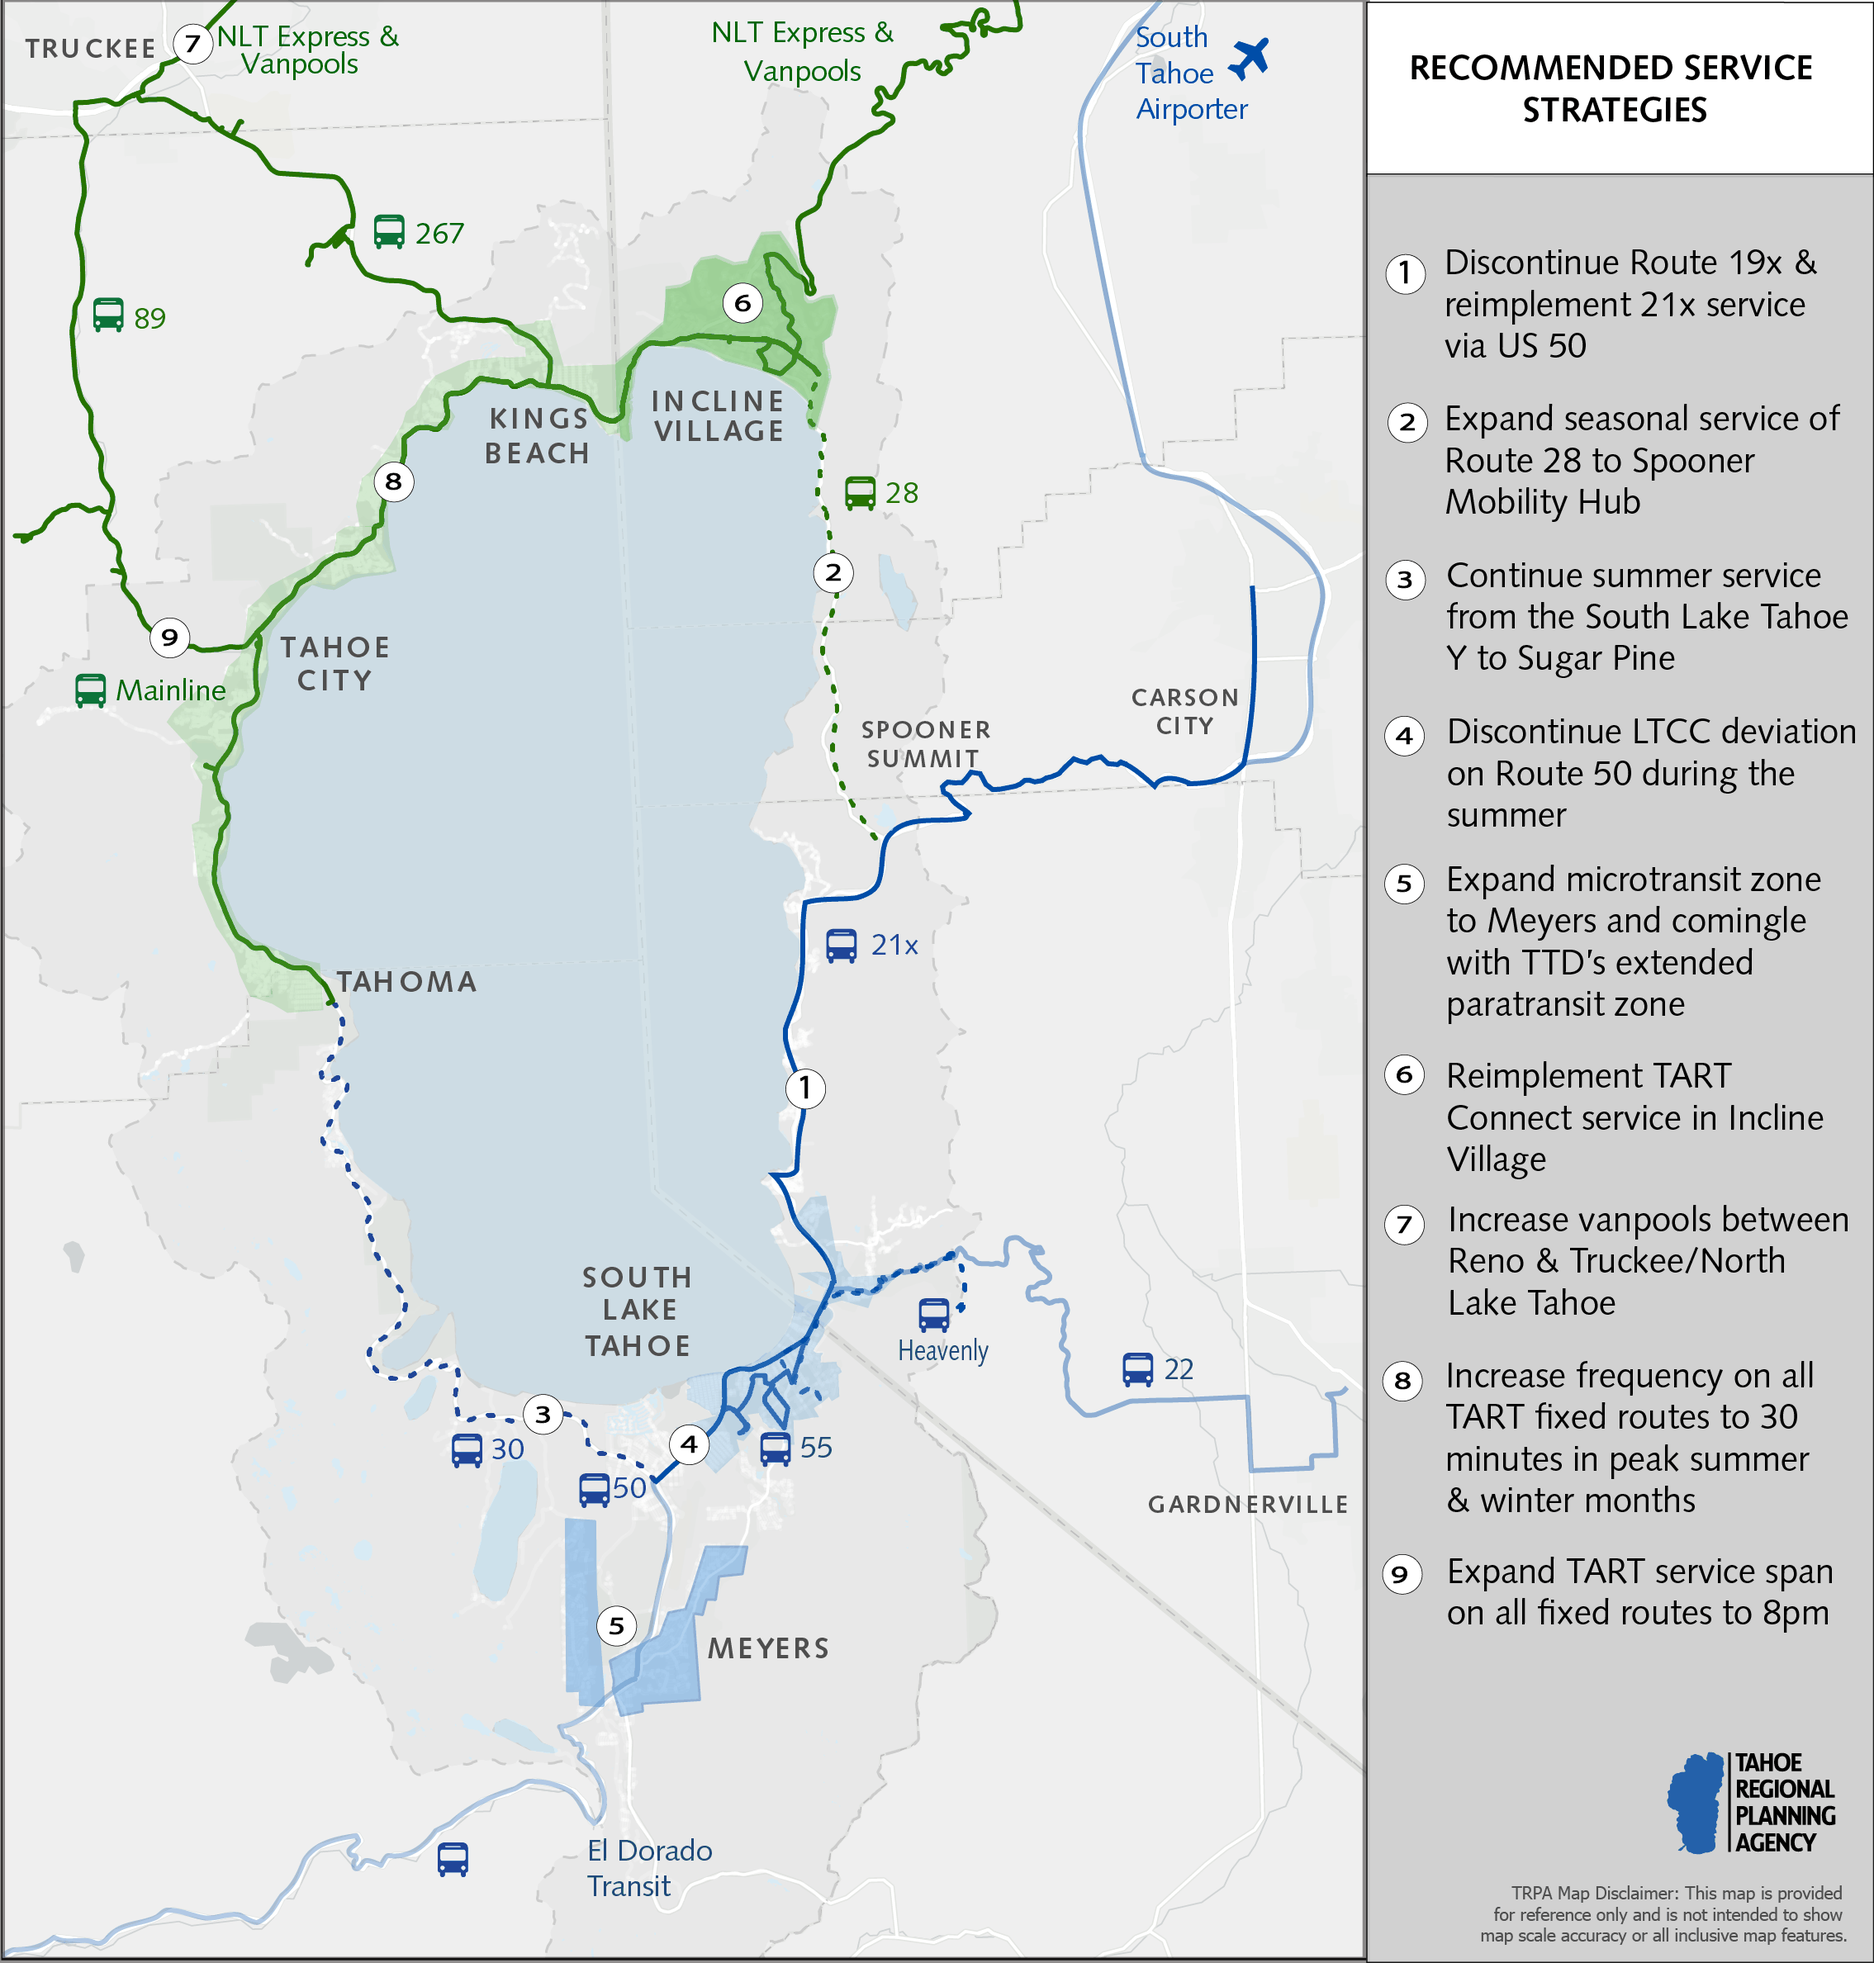
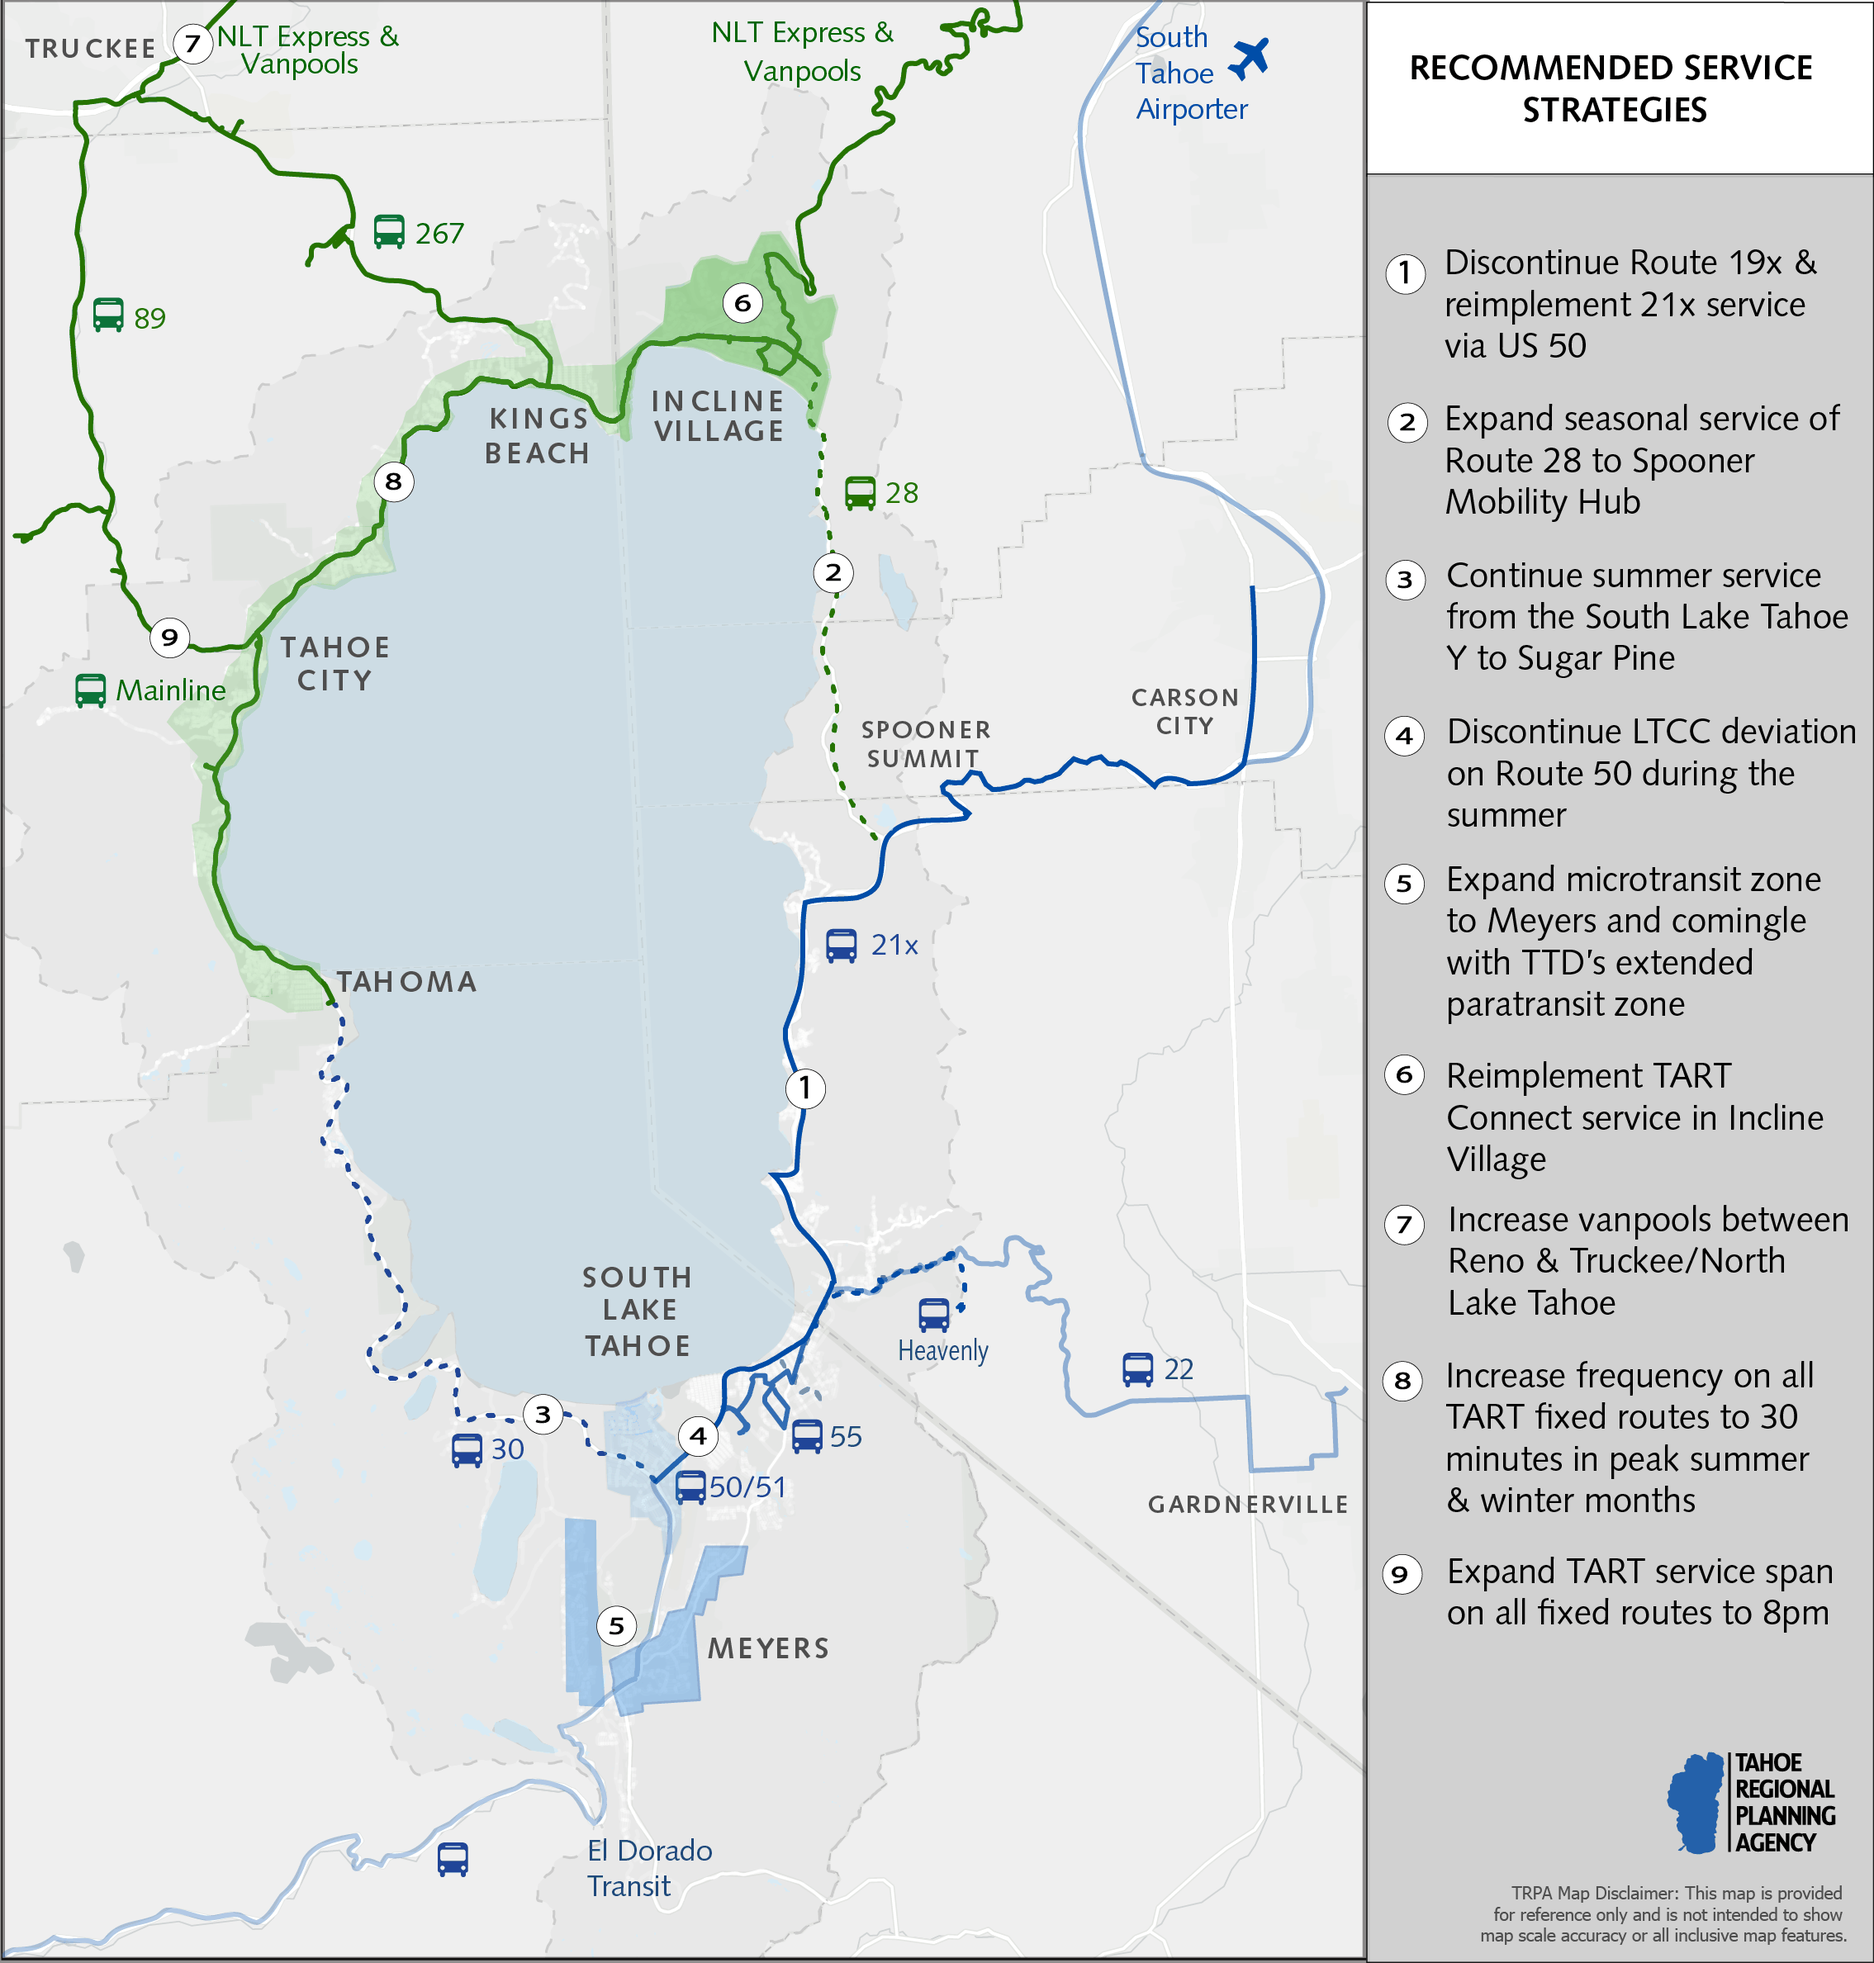
Updated maps on website

Changed region(s): [[0.3085, 0.5915, 0.4628, 0.7783]]

diff --git a/index.html b/index.html
@@ -498,7 +498,7 @@
             <h2>Recommended service strategies</h2>
           </div>
           <figure class="chart">
-            <a class="img" href="assets/img/recommended-service-map.png" target="_blank" rel="noopener"><img src="assets/img/recommended-service-map.png" width="2269" height="2377" loading="lazy" alt="Map of the nine recommended service strategies in the Lake Tahoe Basin. 1: Discontinue Route 19X and reimplement 21X service via US 50. 2: Expand seasonal service of Route 28 to the Spooner Mobility Hub. 3: Continue summer service from the South Lake Tahoe Y to Sugar Pine. 4: Discontinue the LTCC deviation on Route 50 during the summer. 5: Expand the microtransit zone to Meyers and commingle with TTD's extended paratransit zone. 6: Reimplement TART Connect service in Incline Village. 7: Increase vanpools between Reno and Truckee/North Lake Tahoe. 8: Increase frequency on all TART fixed routes to 30 minutes in peak summer and winter months. 9: Expand TART service span on all fixed routes to 8 p.m." /></a>
+            <a class="img" href="assets/img/recommended-service-map.png" target="_blank" rel="noopener"><img src="assets/img/recommended-service-map.png" width="2269" height="2377" loading="lazy" alt="Map of the nine recommended service strategies in the Lake Tahoe Basin. 1: Discontinue Route 19X and reimplement 21X service via US 50. 2: Expand seasonal service of Route 28 to the Spooner Mobility Hub. 3: Continue summer service from the South Lake Tahoe Y to Sugar Pine. 4: Discontinue the LTCC deviation on Route 50 during the summer. 5: Expand the microtransit zone to Meyers and comingle with TTD's extended paratransit zone. 6: Reimplement TART Connect service in Incline Village. 7: Increase vanpools between Reno and Truckee/North Lake Tahoe. 8: Increase frequency on all TART fixed routes to 30 minutes in peak summer and winter months. 9: Expand TART service span on all fixed routes to 8 p.m." /></a>
             <figcaption>Recommended service strategies. Map: TRPA. <a class="full" href="assets/img/recommended-service-map.png" target="_blank" rel="noopener">Open full size</a></figcaption>
           </figure>
         </div>
@@ -514,7 +514,7 @@
             <h2>Existing services</h2>
           </div>
           <figure class="chart map">
-            <a class="img" href="assets/img/existing-transit-map.png" target="_blank" rel="noopener"><img src="assets/img/existing-transit-map.png" width="1260" height="1631" loading="lazy" alt="Map of the existing transit system in the Lake Tahoe Basin. North Shore fixed routes (TART Mainline, 89, 267, and TTD Route 28) connect Truckee, Olympic Valley, Tahoma, Kings Beach, and Incline Village, with TART Connect zones along the north and west shores and the North Lake Tahoe Express to the airport. South Shore fixed routes (TTD 50/51, 55, 10 and 12, 207 and 14, 22, and 19X) serve South Lake Tahoe, Stateline, Carson City, and Gardnerville, with Lake Link zones in South Lake Tahoe. Seasonal routes include the Emerald Bay Shuttle and the East Shore service on Route 28. El Dorado Transit runs from Meyers to Sacramento, and the South Tahoe Airporter runs to Reno." /></a>
+            <a class="img" href="assets/img/existing-transit-map.png" target="_blank" rel="noopener"><img src="assets/img/existing-transit-map.png" width="1836" height="2376" loading="lazy" alt="Map of the existing transit system in the Lake Tahoe Basin. North Shore fixed routes (TART Mainline, 89, 267, and TTD Route 28) connect Truckee, Olympic Valley, Tahoma, Kings Beach, and Incline Village, with TART Connect zones along the north and west shores and the North Lake Tahoe Express to the airport. South Shore fixed routes (TTD 50/51, 55, 10 and 12, 207 and 14, 22, and 19X) serve South Lake Tahoe, Stateline, Carson City, and Gardnerville, with Lake Link zones in South Lake Tahoe. Seasonal routes include the Emerald Bay Shuttle and the East Shore service on Route 28. El Dorado Transit runs from Meyers to Sacramento, and the South Tahoe Airporter runs to Reno." /></a>
             <figcaption>Existing transit system. Map: TRPA. <a class="full" href="assets/img/existing-transit-map.png" target="_blank" rel="noopener">Open full size</a></figcaption>
           </figure>
         </div>
@@ -576,7 +576,7 @@
           </div>
           <div class="cards">
             <article class="card"><h3>Join a public meeting to learn about the study and share your feedback</h3><p>TRPA will seek input on key findings and recommendations at several public meetings around the basin.</p><a class="btn outline" href="#meetings">See meeting dates</a></article>
-            <article class="card"><h3>Take our community survey</h3><p>We want to hear directly from you to understand how you use the transit system, the challenges you face, and the improvements that would make the biggest difference. The survey will be open through January 2027.</p><a class="btn outline" href="#survey">Take the survey</a></article>
+            <article class="card"><h3>Take our community survey</h3><p>We want to hear directly from you to understand how you use the transit system, the challenges you face, and the improvements that would make the biggest difference.</p><a class="btn outline" href="#survey">Take the survey</a></article>
             <article class="card"><h3>Share your comments</h3><p>Send your comments to:</p><p><span class="who" data-contact-name style="font-weight:600"></span><br /><span class="role" data-contact-title></span><a data-contact-email></a></p></article>
           </div>
         </div>
@@ -587,7 +587,7 @@
           <div class="survey-intro">
             <p class="kicker">Public survey</p>
             <h2>Tell us how you use transit</h2>
-            <p>The Tahoe Transit Study Survey asks how you use the transit system and what you think of the proposed changes.</p>
+            <p>The Tahoe Transit Study Survey asks how you use the transit system and what you think of the proposed changes. It will be open through <span class="survey-closes">Jan. 31, 2027</span>.</p>
             <p><a id="survey-newtab" target="_blank" rel="noopener">Open the survey in a new tab</a></p>
           </div>
           <div class="survey-frame" id="survey-frame">
@@ -685,6 +685,7 @@
       };
       $("#team-list").innerHTML = (CFG.partners?.team || []).map(logo).join("");
       $("#stakeholder-list").innerHTML = (CFG.partners?.stakeholders || []).map(logo).join("");
+      if (CFG.survey && CFG.survey.closes) document.querySelectorAll(".survey-closes").forEach(el => { el.textContent = CFG.survey.closes; });
       $("#survey-newtab").href = CFG.survey ? `https://survey123.arcgis.com/share/${CFG.survey.itemId}` : "#";
 
       // meetings: today and later are upcoming, soonest first; past is newest first

diff --git a/data/recommendations-matrix.js b/data/recommendations-matrix.js
@@ -48,7 +48,7 @@ window.REC_MATRIX = {
     { type: "service", term: "Short", title: "Increase vanpools between Reno and Truckee/North Lake Tahoe", lead: ["TNT"], partners: ["TRK", "RTCW", "EMP", "RES"] },
     { type: "service", term: "Medium", title: "Discontinue TTD's operation of Route 19X and reimplement US 50 service between South Shore and Carson City", lead: ["TTD"], partners: ["NDOT", "CC", "DC", "CAMPO"] },
     { type: "service", term: "Medium", title: "Continue summer service from South Lake Y to Sugar Pine (Emerald Bay Shuttle)", lead: ["TTD"], partners: ["EDC", "CSLT", "USFS", "CASP", "PC", "CT", "TRPA"] },
-    { type: "service", term: "Medium", title: "Expand microtransit zone to Meyers commingled with paratransit", lead: ["TTD", "SSTMA"], partners: ["EDC", "STTJPA", "TRPA"] },
+    { type: "service", term: "Medium", title: "Expand microtransit zone to Meyers comingled with paratransit", lead: ["TTD", "SSTMA"], partners: ["EDC", "STTJPA", "TRPA"] },
     { type: "service", term: "Medium to long", title: "Reimplement TART Connect service in Incline Village", lead: ["PC"], partners: ["WC", "IVCBVB", "TRPA"] },
     { type: "service", term: "Long", title: "Expand seasonal service of Route 28 to Spooner Mobility Hub", lead: ["TTD"], partners: ["NDOT", "NVSP"] },
     { type: "service", term: "Long", title: "Increase frequency on TART fixed routes to 30 minutes during peak summer and winter", lead: ["PC"], partners: ["RES", "TNT"] },

diff --git a/config/site-config.js b/config/site-config.js
@@ -13,7 +13,8 @@ window.SITE_CONFIG = {
   survey: {
     title: "Tahoe Transit Study Survey",
     itemId: "d49378edcde44d33ad51f498b09e4c4c",
-    shortUrl: "https://arcg.is/0Kv8eu0"
+    shortUrl: "https://arcg.is/0Kv8eu0",
+    closes: "Jan. 31, 2027"   // shown on the Get involved tab
     // share URL and iframe URL are built from itemId in the page
   },
 

diff --git a/CLAUDE.md b/CLAUDE.md
@@ -32,6 +32,7 @@ The public website for the Tahoe Transit Study, a Tahoe Regional Planning Agency
 | `data/historic-timeline.js` | `window.HISTORIC_TIMELINE`: historic transit events for the Existing conditions tab. |
 | `assets/img/` | Photos, maps, governance chart, TRPA logos, favicon. Partner logos are in `assets/img/partners/`, trimmed and no larger than 320 by 160 pixels. |
 | `.nojekyll` | Tells Pages to skip Jekyll. Keep it. |
+| `TransitFundingModel/` | The Regional Transit Funding Model, moved from the Transportation repo on Nov. 10, 2026. It has its own `CLAUDE.md`; read that before editing it. Its four source workbooks in `source-data/workbooks/` (about 17 MB) are an approved exception to the keep-small rule, because the build reads them. Its fact sheet PDFs are linked from trpa.gov, not stored here. |
 
 ## Page structure
 
@@ -50,7 +51,7 @@ One page with hash-routed tabs: `#home`, `#recommendations`, `#existing-conditio
 - **Timeframes:** `term` values like "Short to medium" render as dots in the Short, Medium, and Long columns. CSV export writes X for each dot.
 - **Agencies:** add a new agency to `AG` (with its group) before using its key in `lead` or `partners`.
 - **Meetings:** each entry has `date` (YYYY-MM-DD), `body`, `time`, `place`, and an optional `link`. The page splits Upcoming and Past by today's date, so past meetings don't need to be moved.
-- **Survey:** Survey123 item `d49378edcde44d33ad51f498b09e4c4c`, embedded with `embed=fullscreen&hide=footer`. The survey is open through January 2027.
+- **Survey:** Survey123 item `d49378edcde44d33ad51f498b09e4c4c`, embedded with `embed=fullscreen&hide=footer`. The survey closes Jan. 31, 2027. The date is `survey.closes` in the config.
 
 ## Brand
 
